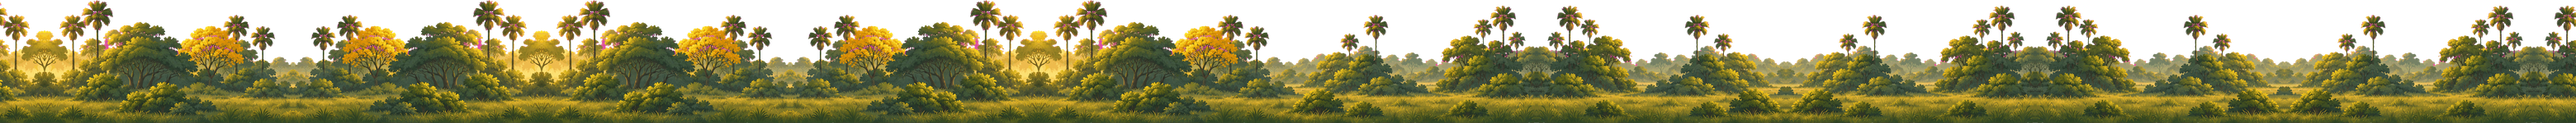
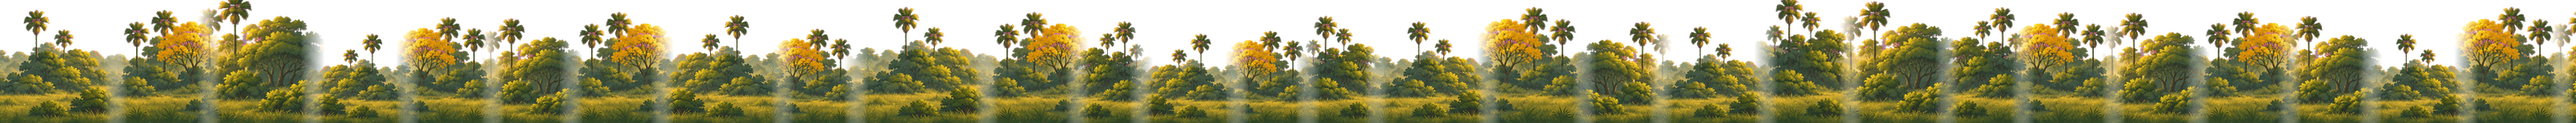
Pantanal: faixa dos capões remontada sem padrão repetido
A faixa do meio do Pantanal Dourado cobria ~6 unidades e era repetida
espelhada até 26, com os ipês num ritmo fixo. Agora processar_mapas_3_4
corta a faixa nos campos abertos entre os capões e remonta os grupos em
ordem sorteada, alguns espelhados, com tamanhos um pouco diferentes e
bordas suaves, e limpa o magenta vazado nas copas.

Claude-Session: https://claude.ai/code/session_0157wnQYKqcwH1tj2jbojgJL

diff --git a/tools/Arte/processar_mapas_3_4.py b/tools/Arte/processar_mapas_3_4.py
@@ -129,7 +129,7 @@ def cut_at(img, fraction):
     return V.cut_waterline(img, fraction)
 
 
-def scenery(folder, prefix, out_folder, file_prefix, sun_world, far_units, mid_units, far_cut=None):
+def scenery(folder, prefix, out_folder, file_prefix, sun_world, far_units, mid_units, far_cut=None, remix_mid=False):
     base = 'Mapas/%s/%s_' % (out_folder, file_prefix)
     photo = find(folder, prefix, '01')
     if photo is not None:
@@ -150,8 +150,11 @@ def scenery(folder, prefix, out_folder, file_prefix, sun_world, far_units, mid_u
         P.save(P.extend_sideways(piece, 0.5, 0.0, (0.0, 0.5), (0.5, 1.0), 110), base + 'bg_far.png')
     mid = find(folder, prefix, '04')
     if mid is not None:
-        piece = P.layer_piece(mid, key_of(mid), mid_units, 120)
-        P.save(P.extend_sideways(piece, 0.5, 0.0, (0.0, 0.5), (0.5, 1.0), 120), base + 'bg_mid.png')
+        piece = P.trim(keyed(mid))
+        h = int(round(mid_units * 120))
+        piece = piece.resize((max(1, round(piece.width * h / piece.height)), h), Image.LANCZOS)
+        band = remix(piece, 120, seed=hash(prefix) % 1000) if remix_mid else P.extend_sideways(piece, 0.5, 0.0, (0.0, 0.5), (0.5, 1.0), 120)
+        P.save(band, base + 'bg_mid.png')
     for number, name in (('05', 'near_left'), ('06', 'near_right'), ('07', 'fg_left'), ('08', 'fg_right')):
         img = find(folder, prefix, number)
         if img is not None and not has_background(img):
@@ -194,6 +197,60 @@ def cloud_sheet(rgba, prefix):
     for i in range(3):
         box = (0, cuts[i], rgba.width, cuts[i + 1]) if stacked else (cuts[i], 0, cuts[i + 1], rgba.height)
         P.save(P.fit(P.main_piece(rgba.crop(box)), (640, 320), 0.04), prefix + '_cloud_%02d.png' % (i + 1))
+
+
+def remix(piece, ppu, seed):
+    """A band of separate groups (capões) rebuilt to 26 units without a visible pattern.
+
+    The piece is cut where its silhouette is lowest (the open grass between groups), and the groups
+    are laid side by side in a shuffled order, some mirrored, each a little bigger or smaller,
+    overlapping with a soft edge. The same group never comes twice in a row.
+    """
+    rng = np.random.default_rng(seed)
+    arr = np.asarray(piece)
+    alpha = arr[..., 3] > 40
+    height = np.where(alpha.any(axis=0), piece.height - alpha.argmax(axis=0), 0).astype(float)
+    smooth = np.convolve(height, np.ones(15) / 15, mode='same')
+    # Cut points: low places at least ~0.9 units apart.
+    order = np.argsort(smooth)
+    cuts = []
+    for x in order:
+        if x < 20 or x > piece.width - 20:
+            continue
+        if all(abs(x - c) > 0.9 * ppu for c in cuts):
+            cuts.append(int(x))
+        if len(cuts) >= 8:
+            break
+    cuts = [0] + sorted(cuts) + [piece.width]
+    groups = [piece.crop((cuts[i], 0, cuts[i + 1], piece.height)) for i in range(len(cuts) - 1) if cuts[i + 1] - cuts[i] > 30]
+    total = int(round(2 * P.HALF_W * ppu))
+    canvas = Image.new('RGBA', (total, piece.height), (0, 0, 0, 0))
+    overlap = int(0.25 * ppu)
+    x, last = -overlap, -1
+    while x < total:
+        i = int(rng.integers(len(groups)))
+        if i == last and len(groups) > 1:
+            continue
+        last = i
+        g = groups[i]
+        if rng.random() < 0.5:
+            g = g.transpose(Image.FLIP_LEFT_RIGHT)
+        k = float(rng.uniform(0.82, 1.08))
+        g = g.resize((max(1, int(g.width * k)), max(1, int(g.height * k))), Image.LANCZOS)
+        # Soft left and right edges so neighbours blend into each other.
+        a = np.asarray(g).astype(np.float32)
+        ramp = np.ones(g.width, dtype=np.float32)
+        n = min(overlap, g.width // 3)
+        if n > 1:
+            ramp[:n] = np.linspace(0, 1, n)
+            ramp[-n:] = np.linspace(1, 0, n)
+        a[..., 3] *= ramp[None, :]
+        g = Image.fromarray(a.astype(np.uint8), 'RGBA')
+        layer = Image.new('RGBA', canvas.size, (0, 0, 0, 0))
+        layer.paste(g, (x, piece.height - g.height))
+        canvas = Image.alpha_composite(layer, canvas) if rng.random() < 0.5 else Image.alpha_composite(canvas, layer)
+        x += g.width - overlap
+    return canvas
 
 
 def grid(img, cols, rows, names, folder_rel, size, margin):
@@ -256,7 +313,7 @@ def main():
         print(__doc__)
         sys.exit(1)
     folder = sys.argv[1]
-    scenery(folder, 'Pantanal', 'PantanalDourado', 'map_pantanal_dourado', (-5.0, 1.5), 0.9, 1.25)
+    scenery(folder, 'Pantanal', 'PantanalDourado', 'map_pantanal_dourado', (-5.0, 1.5), 0.9, 1.25, remix_mid=True)
     scenery(folder, 'Estuario', 'EstuarioDasMares', 'map_estuario_das_mares', (2.4, 1.8), 1.3, 1.2, far_cut=0.80)
     fish_and_gear(folder)
     living(folder)
